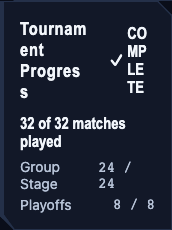
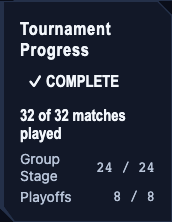
fix(tokens): wrap completion figure header and prevent badge squishing on narrow viewports

diff --git a/packages/design-tokens/src/generate/css.ts b/packages/design-tokens/src/generate/css.ts
@@ -1365,9 +1365,10 @@ function compositions(): string {
     '',
     '.cl-completion-figure__header {',
     '  display: flex;',
+    '  flex-wrap: wrap;',
     '  align-items: center;',
     '  justify-content: space-between;',
-    '  gap: var(--cl-space-3);',
+    '  gap: var(--cl-space-2) var(--cl-space-3);',
     '}',
     '',
     '.cl-completion-figure__heading {',
@@ -1382,6 +1383,8 @@ function compositions(): string {
     '  display: inline-flex;',
     '  align-items: center;',
     '  gap: var(--cl-space-1);',
+    '  white-space: nowrap;',
+    '  flex-shrink: 0;',
     '}',
     '',
     '.cl-completion-figure__body {',
@@ -1403,6 +1406,7 @@ function compositions(): string {
     '  display: flex;',
     '  align-items: center;',
     '  justify-content: space-between;',
+    '  gap: var(--cl-space-2);',
     '  font-size: var(--cl-font-size-sm);',
     '  color: var(--cl-text-secondary);',
     '}',
@@ -1410,6 +1414,7 @@ function compositions(): string {
     '.cl-completion-figure__stage-counts {',
     '  font-family: var(--cl-font-mono);',
     '  font-variant-numeric: tabular-nums;',
+    '  white-space: nowrap;',
     '}',
     '',
     /*
